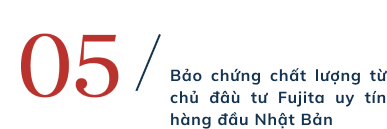
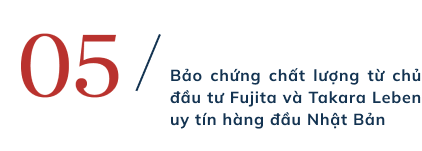
fix font color

Changed region(s): [[0.031, 0.2171, 1.0, 1.0], [0.3721, 0.2171, 0.4341, 0.3411]]

diff --git a/public/css/introduce/sec4.css b/public/css/introduce/sec4.css
@@ -21,7 +21,7 @@
 .header21-sec4-intro-pc {
     text-transform: uppercase;
     font-size: 50px;
-    color: #141C46;
+    color: #43496B;
 }
 
 .header3-sec4-intro-pc {
@@ -33,6 +33,8 @@
 .text-sec4-intro-pc {
     justify-content: center;
     text-align: justify;
+    color: #43496B;
+    font-size: 15px;
 }
 
 .sec4-intro-mb {
@@ -63,7 +65,7 @@
     /*width: 90vw;*/
     text-transform: uppercase;
     font-size: 25px;
-    color: #133351;
+    color: #43496B;
 }
 
 .header3-sec4-intro-mb {

diff --git a/public/css/introduce/sec1.css b/public/css/introduce/sec1.css
@@ -4,7 +4,14 @@
     height: 83vh;
     background-size: cover;
     background-repeat: no-repeat;
-    /*margin-top: 17vh;*/
+    margin-top: 12vh;
 }
 
-.
+.sec1-intro-mb {
+    background-image: url("/images/introduce/sec1/Rectangle 171.png");
+    width: 100vw;
+    height: 83vh;
+    background-size: cover;
+    background-repeat: no-repeat;
+    /*margin-top: 12vh;*/
+}

diff --git a/public/css/introduce/sec3.css b/public/css/introduce/sec3.css
@@ -8,7 +8,7 @@
 
 .text-sec3-intro-pc {
     text-align: justify;
-
+    color: #133351;
 }
 
 .all-header-sec3-intro-pc {
@@ -50,7 +50,7 @@
     width: 90vw;
     margin-left: 5%;
     text-align: justify;
-    color: black;
+    color: #133351;
 }
 
 .header-first-line-intro-mb {

diff --git a/public/css/introduce/sec5.css b/public/css/introduce/sec5.css
@@ -36,6 +36,7 @@
 .text-sec5-intro {
     font-size: 15px;
     text-align: justify;
+    color: #43496B;
 }
 
 .text-sec5-intro-mb {
@@ -43,6 +44,7 @@
     text-align: justify;
     width: 90vw;
     margin-left: 5%;
+    color: #43496B;
 }
 
 .header1-sec5-intro-mb {

diff --git a/public/css/product-v/sec2.css b/public/css/product-v/sec2.css
@@ -48,4 +48,12 @@
 .text-sec2-product-pc {
     text-align: justify;
     font-size: 15px;
+    color: #43496B;
+}
+
+.text-sec21-product-pc {
+    text-align: justify;
+    font-size: 14px;
+    font-style: italic;
+    color: #43496B;
 }

diff --git a/resources/views/pages/product/sec2.blade.php b/resources/views/pages/product/sec2.blade.php
@@ -16,15 +16,16 @@
     <div class="row-test container-sec2-product-pc">
         <div class="col-lg-7  col-xs-12 " style="letter-spacing: 1px;  padding-left: 1%; padding-bottom: 5%;">
             <p class="header2-sec2-product-pc icielbegum" style="font-size: 51px; color: #BA322E">TRIẾT LÝ ZEN</p>
-            <p class="col-xs-12 text-sec2-product-pc mulish-extrabold pe-2" style="size: 16px">Mang đúng tinh thần Zen tái hiện trong không gian sống, các căn hộ tại The Minato Residence được
+            <p class="col-xs-12 text-sec2-product-pc cabin-medium pe-2" style="size: 16px">Mang đúng tinh thần Zen tái hiện trong không gian sống, các căn hộ tại The Minato Residence được
                 thiết kế tinh tế, tối giản và thấm đượm hơi thở Nhật Bản trong từng đường nét. Phong cách thiết kế nội
                 thất tại The Minato Residence không mang vẻ lộng lẫy hay xa hoa, thay vào đó sẽ tạo điểm nhấn thông qua
                 sự trang nhã của màu sắc và chất liệu thô mộc ấm áp, hòa quyện với bức tranh thiên nhiên hùng vĩ của núi
                 Phú Sĩ vẽ trên tường ngăn, cửa trượt Shoji </p>
-            <p class="col-xs-12 text-sec2-product-pc mulish-extrabold pe-2" style="size: 16px">Mọi không gian sống đều được chau chuốt tỉ mỉ bởi các kiến trúc sư Nhật Bản tài ba, các không
+            <p class="col-xs-12 text-sec2-product-pc cabin-medium pe-2" style="size: 16px">Mọi không gian sống đều được chau chuốt tỉ mỉ bởi các kiến trúc sư Nhật Bản tài ba, các không
                 gian được sử dụng triệt để, đa công năng nhưng không tạo ra sự chật chội. Hệ thống cửa kính lớn giúp căn
                 phòng tràn ngập ánh nắng tự nhiên và có tầm view hướng ra công viên Sakura xanh mát và sông Lạch Tray
                 thơ mộng.</p>
+            <p class="col-xs-12 text-sec21-product-pc cabin-medium pe-2" style="size: 16px">*Hình căn hộ mẫu tham khảo, nội thất không bao gồm khi bàn giao</p>
         </div>
         <img src="{{asset('images/product/sec2/Group 102 (1).png')}}" class="col-lg-4 col-xs-12 img-fluid ps-5 pe-5 pb-5">
     </div>

diff --git a/resources/views/pages/home-page/sec2.blade.php b/resources/views/pages/home-page/sec2.blade.php
@@ -8,7 +8,7 @@
                 Bản, The Minato
                 Residence được xây dựng bên bờ sông Lạch Tray, thừa hưởng trọn vẹn lợi thế về phong thủy bậc nhất. Chắt
                 lọc những tinh hoa từ xứ Phù Tang, The Minato Residence mang đến sự cân bằng trọn vẹn giữa nhịp sống
-                hiện đại, tiện nghi và những khoảnh khắc “sống chậm” chan hòa cùng thiên nhiên.</p>
+                hiện đại, tiện nghi và những khoảnh khắc “sống an” chan hòa cùng thiên nhiên.</p>
             <a href="#" class="double-border first-text-hp px-5 py-2 mulish-extrabold">
                 TÌM HIỂU THÊM
             </a>
@@ -57,7 +57,7 @@
         Bản, The Minato
         Residence được xây dựng bên bờ sông Lạch Tray, thừa hưởng trọn vẹn lợi thế về phong thủy bậc nhất. Chắt
         lọc những tinh hoa từ xứ Phù Tang, The Minato Residence mang đến sự cân bằng trọn vẹn giữa nhịp sống
-        hiện đại, tiện nghi và những khoảnh khắc “sống chậm” chan hòa cùng thiên nhiên.</p>
+        hiện đại, tiện nghi và những khoảnh khắc “sống an” chan hòa cùng thiên nhiên.</p>
     <img src="{{asset('images/homepage/sec2/image 6.png')}}" class="col-11 img-sec2-hp-mb">
     <p class="text-hp-mb cabin-medium">Nằm tại lõi trung tâm mới của thành phố Hải Phòng, The Minato Residence là tâm điểm giao thoa
         với hệ tiện ích ngoại khu đạt chuẩn quốc tế đáp ứng mọi nhu cầu từ ăn uống, vui chơi, giải trí đến mua sắm, giáo

diff --git a/resources/views/pages/Introduce/sec1.blade.php b/resources/views/pages/Introduce/sec1.blade.php
@@ -1,3 +1,7 @@
-<div class="sec1-intro-pc">
+<div class="sec1-intro-pc d-none d-sm-block">
+
+</div>
+
+<div class="sec1-intro-mb d-block d-sm-none">
 
 </div>
